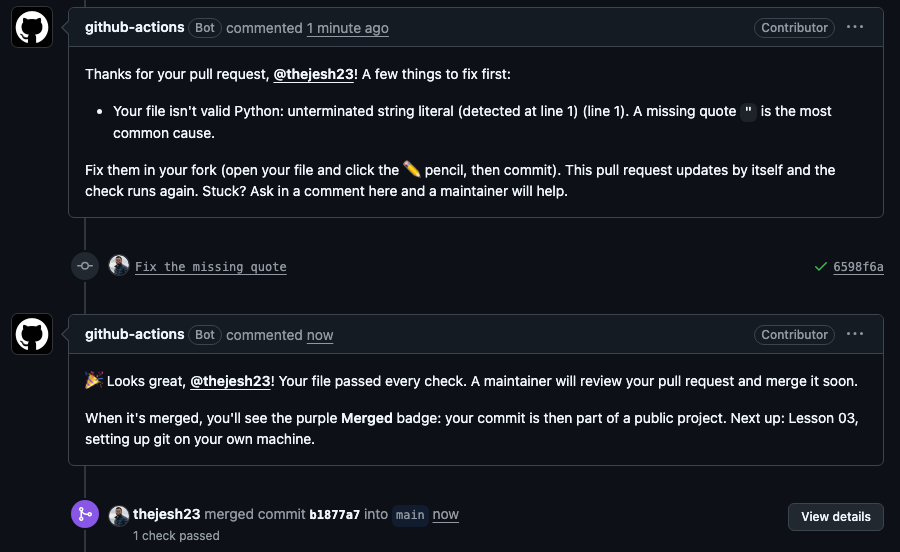
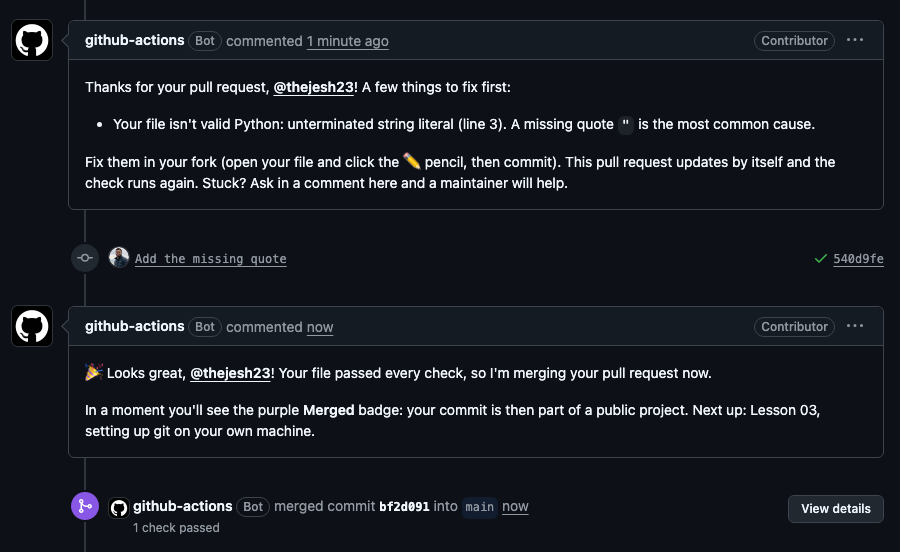
Lesson 02 and promo: show the bot merging a real pull request
The captures now come from #52, which the bot merged by itself 15 seconds after the fix.

diff --git a/lessons/02-first-pr-in-browser/script.md b/lessons/02-first-pr-in-browser/script.md
@@ -130,11 +130,11 @@ highlight: 56,99,260,36
 
 ## Scene 9: The bot
 visual: browser
-url: https://github.com/thejesh23/first-python-contribution/pull/27
+url: https://github.com/thejesh23/first-python-contribution/pull/52
 caption: The bot explains what to fix. When your file is right, it merges.
 image: captures/bot-review.png
 height: 2600
-crop: 100,528,900,552
+crop: 100,515,900,552
 
 > Now watch. Within a minute or two, a check called Validate first commit
 > runs. It reads your file with Python's own parser, the same way Python

diff --git a/publishing/promo/script.md b/publishing/promo/script.md
@@ -28,11 +28,11 @@ crop: 15,85,1260,245
 
 ## Scene 3: What you'll do
 visual: browser
-url: https://github.com/thejesh23/first-python-contribution/pull/27
+url: https://github.com/thejesh23/first-python-contribution/pull/52
 caption: Your first pull request: a bot checks it, and merges it within a minute
 image: captures/first-pr.png
 height: 2600
-crop: 112,836,880,215
+crop: 112,822,880,236
 
 > Your first pull request lands in about fifteen minutes, right in your
 > browser. A bot checks it, and merges it within a minute.
